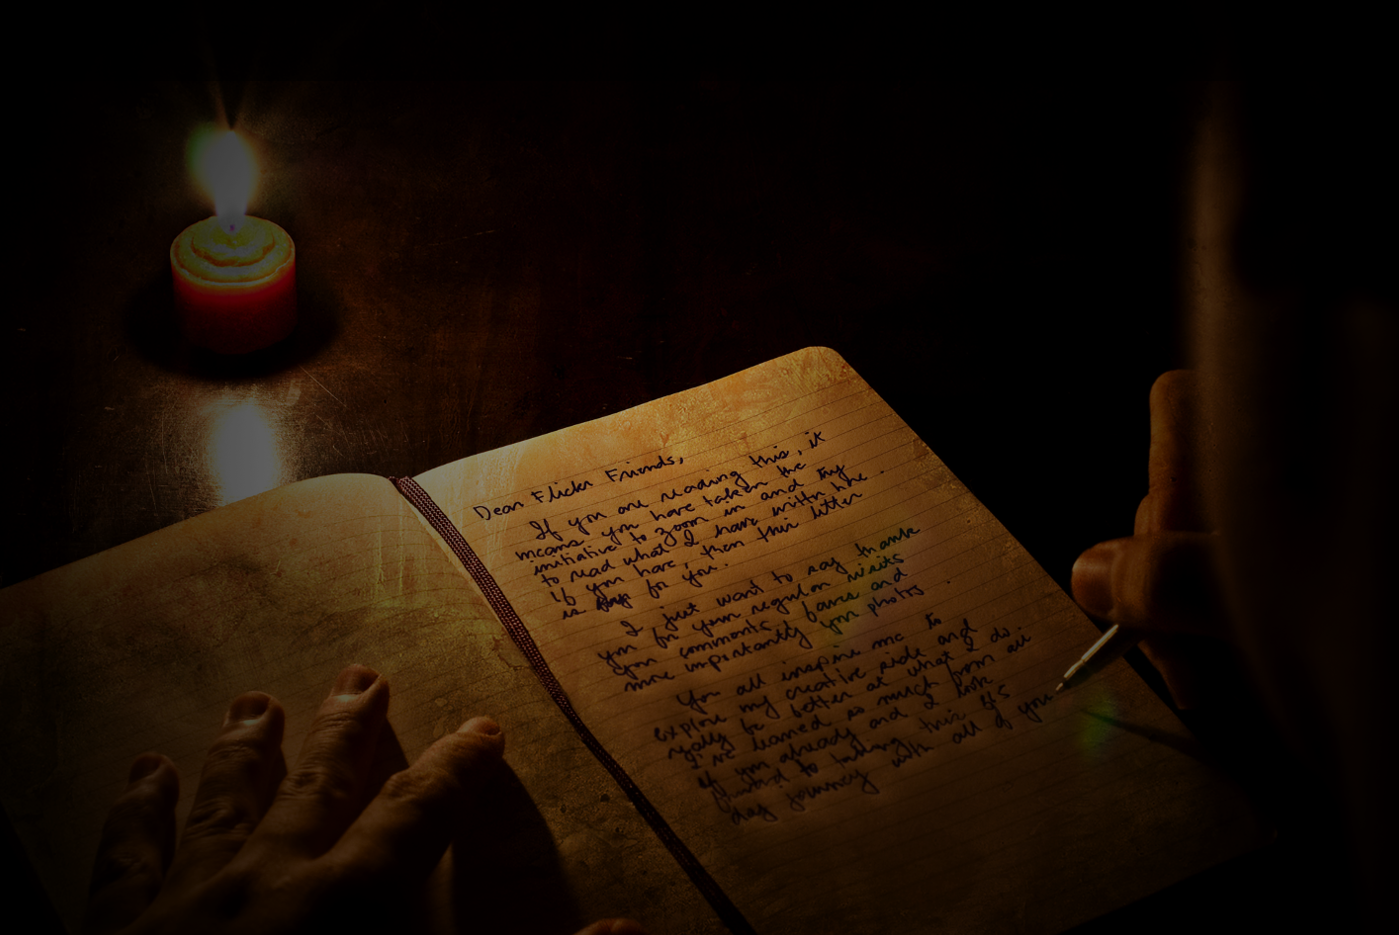
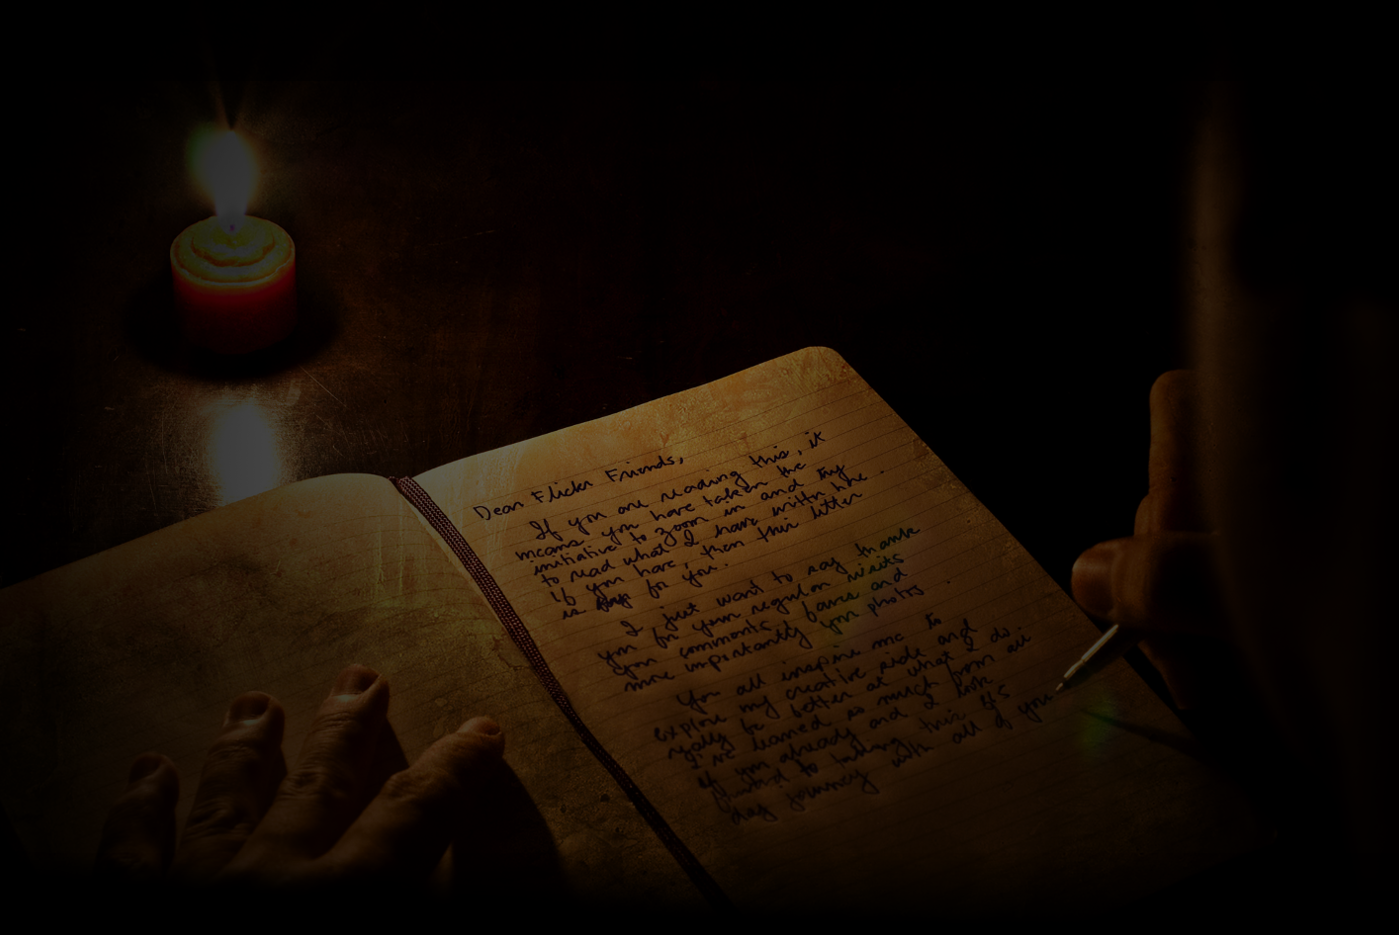
Временная заглушка вместо лендинга

diff --git a/yii/frontend/web/js/countdown.js b/yii/frontend/web/js/countdown.js
@@ -1,0 +1,25 @@
+/**!
+ * easyPieChart
+ * Lightweight plugin to render simple, animated and retina optimized pie charts
+ *
+ * @license Dual licensed under the MIT (http://www.opensource.org/licenses/mit-license.php) and GPL (http://www.opensource.org/licenses/gpl-license.php) licenses.
+ * @author Robert Fleischmann <rendro87@gmail.com> (http://robert-fleischmann.de)
+ * @version 2.0.1
+ **/
+!function(){var a=function(a,b){var c=document.createElement("canvas");"undefined"!=typeof G_vmlCanvasManager&&G_vmlCanvasManager.initElement(c);var d=c.getContext("2d");if(c.width=c.height=b.size,a.appendChild(c),window.devicePixelRatio>1){var e=window.devicePixelRatio;c.style.width=c.style.height=[b.size,"px"].join(""),c.width=c.height=b.size*e,d.scale(e,e)}d.translate(b.size/2,b.size/2),d.rotate((-0.5+b.rotate/180)*Math.PI);var f=(b.size-b.lineWidth)/2;b.scaleColor&&b.scaleLength&&(f-=b.scaleLength+2);var g=function(a,b,c){c=Math.min(Math.max(0,c||1),1),d.beginPath(),d.arc(0,0,f,0,2*Math.PI*c,!1),d.strokeStyle=a,d.lineWidth=b,d.stroke()},h=function(){var a,c,e=24;d.lineWidth=1,d.fillStyle=b.scaleColor,d.save();for(var e=24;e>=0;--e)0===e%6?(c=b.scaleLength,a=0):(c=.6*b.scaleLength,a=b.scaleLength-c),d.fillRect(-b.size/2+a,0,c,1),d.rotate(Math.PI/12);d.restore()};Date.now=Date.now||function(){return+new Date};var i=function(){return window.requestAnimationFrame||window.webkitRequestAnimationFrame||window.mozRequestAnimationFrame||function(a){window.setTimeout(a,1e3/60)}}();this.clear=function(){d.clearRect(b.size/-2,b.size/-2,b.size,b.size)},this.draw=function(a){this.clear(),b.scaleColor&&h(),b.trackColor&&g(b.trackColor,b.lineWidth),d.lineCap=b.lineCap;var c;c="function"==typeof b.barColor?b.barColor(a):b.barColor,a>0&&g(c,b.lineWidth,a/100)}.bind(this),this.animate=function(a,c){var d=Date.now();b.onStart(a,c);var e=function(){var f=Math.min(Date.now()-d,b.animate),g=b.easing(this,f,a,c-a,b.animate);this.draw(g),b.onStep(a,c,g),f>=b.animate?b.onStop(a,c):i(e)}.bind(this);i(e)}.bind(this)},b=function(b,c){var d,e={barColor:"#ef1e25",trackColor:"#f9f9f9",scaleColor:"#dfe0e0",scaleLength:5,lineCap:"round",lineWidth:3,size:110,rotate:0,animate:1e3,renderer:a,easing:function(a,b,c,d,e){return(b/=e/2)<1?d/2*b*b+c:-d/2*(--b*(b-2)-1)+c},onStart:function(){},onStep:function(){},onStop:function(){}},f={},g=0,h=function(){this.el=b,this.options=f;for(var a in e)e.hasOwnProperty(a)&&(f[a]=c&&"undefined"!=typeof c[a]?c[a]:e[a],"function"==typeof f[a]&&(f[a]=f[a].bind(this)));f.easing="string"==typeof f.easing&&"undefined"!=typeof jQuery&&jQuery.isFunction(jQuery.easing[f.easing])?jQuery.easing[f.easing]:e.easing,d=new f.renderer(b,f),d.draw(g),b.dataset&&b.dataset.percent&&this.update(parseInt(b.dataset.percent,10))}.bind(this);this.update=function(a){return a=parseInt(a,10),f.animate?d.animate(g,a):d.draw(a),g=a,this}.bind(this),h()};window.EasyPieChart=b}();
+
+var options = {
+  scaleColor: false,
+  trackColor: 'rgba(255,255,255,0.3)',
+  barColor: '#E7F7F5',
+  lineWidth: 6,
+  lineCap: 'butt',
+  size: 95
+};
+
+window.addEventListener('DOMContentLoaded', function() {
+  var charts = [];
+  [].forEach.call(document.querySelectorAll('.chart'),  function(el) {
+    charts.push(new EasyPieChart(el, options));
+  });
+});

diff --git a/yii/frontend/web/css/landing.css b/yii/frontend/web/css/landing.css
@@ -34,8 +34,9 @@ body {
   font-family: "RobotoRegular";
 }
 .header {
-  background: url(../img/header-bg.png);
-  height: 700px;
+  background-image: url(../img/header-bg.png);
+  background-color: #000;
+  /*min-height: 700px;*/
 }
 .navbar.navbar-default {
   background: rgba(0, 0, 0, 0.7);
@@ -67,7 +68,13 @@ body {
   text-align: center;
   font-size: 40px;
   font-family: "RobotoBold";
-  margin-bottom: 40px;
+  margin-bottom: 25px;
+}
+
+@media screen and (max-width: 768px) {
+  .main-header {
+    font-size: 30px;
+  }  
 }
 .btn-sign-up {
   background: #90a900;
@@ -75,7 +82,7 @@ body {
   padding-top: 4px;
   padding-left: 40px;
   padding-right: 40px;
-  font-size: 20px;
+  font-size: 17px;
   font-family: "RobotoLight";
   outline: none !important;
   box-shadow: none !important;

diff --git a/yii/frontend/web/css/countdown.css b/yii/frontend/web/css/countdown.css
@@ -1,0 +1,48 @@
+.countdown a {
+  display: block;
+  margin-bottom: 1em;
+  color: #E7F7F5;
+  text-decoration: none;
+}
+.countdown a:last-of-type {
+  font-size: 0.9em;
+}
+.countdown a:hover {
+  text-decoration: underline;
+}
+.countdown li {
+  list-style: none;
+  display: inline-block;
+}
+
+.countdown ul {
+  padding-left: 0px;
+}
+.countdown {
+  margin-bottom: 40px;
+}
+
+.countdown .chart {
+  display: inline-block;
+  width: 95px;
+  height: 95px;
+  margin: 0 10px;
+  vertical-align: top;
+  position: relative;
+  padding-top: 22px;
+}
+.countdown .chart span {
+  display: block;
+  font-size: 2em;
+  font-weight: normal;
+}
+.countdown .chart canvas {
+  position: absolute;
+  left: 0;
+  top: 0;
+}
+
+
+body {
+  background-color: #000;
+}

diff --git a/yii/frontend/web/js/landing.js b/yii/frontend/web/js/landing.js
@@ -1,0 +1,5 @@
+$(document).ready(function() {
+	setTimeout(function() {
+		$('.header').css('min-height',window.innerHeight + 'px');
+	}, 1);
+});

diff --git a/yii/frontend/modules/home/views/landing/index.php b/yii/frontend/modules/home/views/landing/index.php
@@ -3,12 +3,12 @@
     <div class="container">
       <!-- Brand and toggle get grouped for better mobile display -->
       <div class="navbar-header">
-        <button type="button" class="navbar-toggle collapsed" data-toggle="collapse" data-target="#bs-example-navbar-collapse-1" aria-expanded="false">
+       <!--  <button type="button" class="navbar-toggle collapsed" data-toggle="collapse" data-target="#bs-example-navbar-collapse-1" aria-expanded="false">
           <span class="sr-only">Toggle navigation</span>
           <span class="icon-bar"></span>
           <span class="icon-bar"></span>
           <span class="icon-bar"></span>
-        </button>
+        </button> -->
         <a class="navbar-brand" href="#">
           <img src="img/logo.png" alt="">
         </a>
@@ -37,10 +37,18 @@
   </h1>
 
   <div class="sub-header fade-slow">
-    Possimus reprehenderit quos, itaque, nostrum distinctio, nemo hic quibusdam sint odit dolorum numquam, repellat voluptate.
+    <p>До открытия сервиса осталось:</p>
+    <br>
+    <div class="countdown">
+      <ul>
+        <li class="chart" data-percent="30"><span>500</span>Лет</li>
+        <li class="chart" data-percent="68"><span>100</span>Дней</li>
+        <li class="chart" data-percent="73"><span>7</span>Часов</li>
+      </ul>
+    </div>
   </div>
 
   <div class="text-center fade-slow">
-    <button class="btn btn-sign-up">Войти</button>
+    <a href="mailto:alexander.a.kirsanov@gmail.com" class="btn btn-sign-up">Отправить заявку</a>
   </div>
 </div>

diff --git a/yii/frontend/assets/LandingAsset.php b/yii/frontend/assets/LandingAsset.php
@@ -14,11 +14,12 @@ class LandingAsset extends AssetBundle
 
     public $css = [
         'css/landing.css',
+        'css/countdown.css',
     ];
 
     public $js = [
         'js/landing.js',
-
+        'js/countdown.js',
     ];
 
     public $depends = [

diff --git a/yii/frontend/modules/home/views/layouts/landing.php b/yii/frontend/modules/home/views/layouts/landing.php
@@ -16,7 +16,7 @@
 		<?php $this->head() ?>
 		<link rel="shortcut icon" type="image/png" href="/favicon.png"/>
 </head>
-<body id="page-top">
+<body>
 
 	<?= $content ?>
 	<?php $this->endBody() ?>
